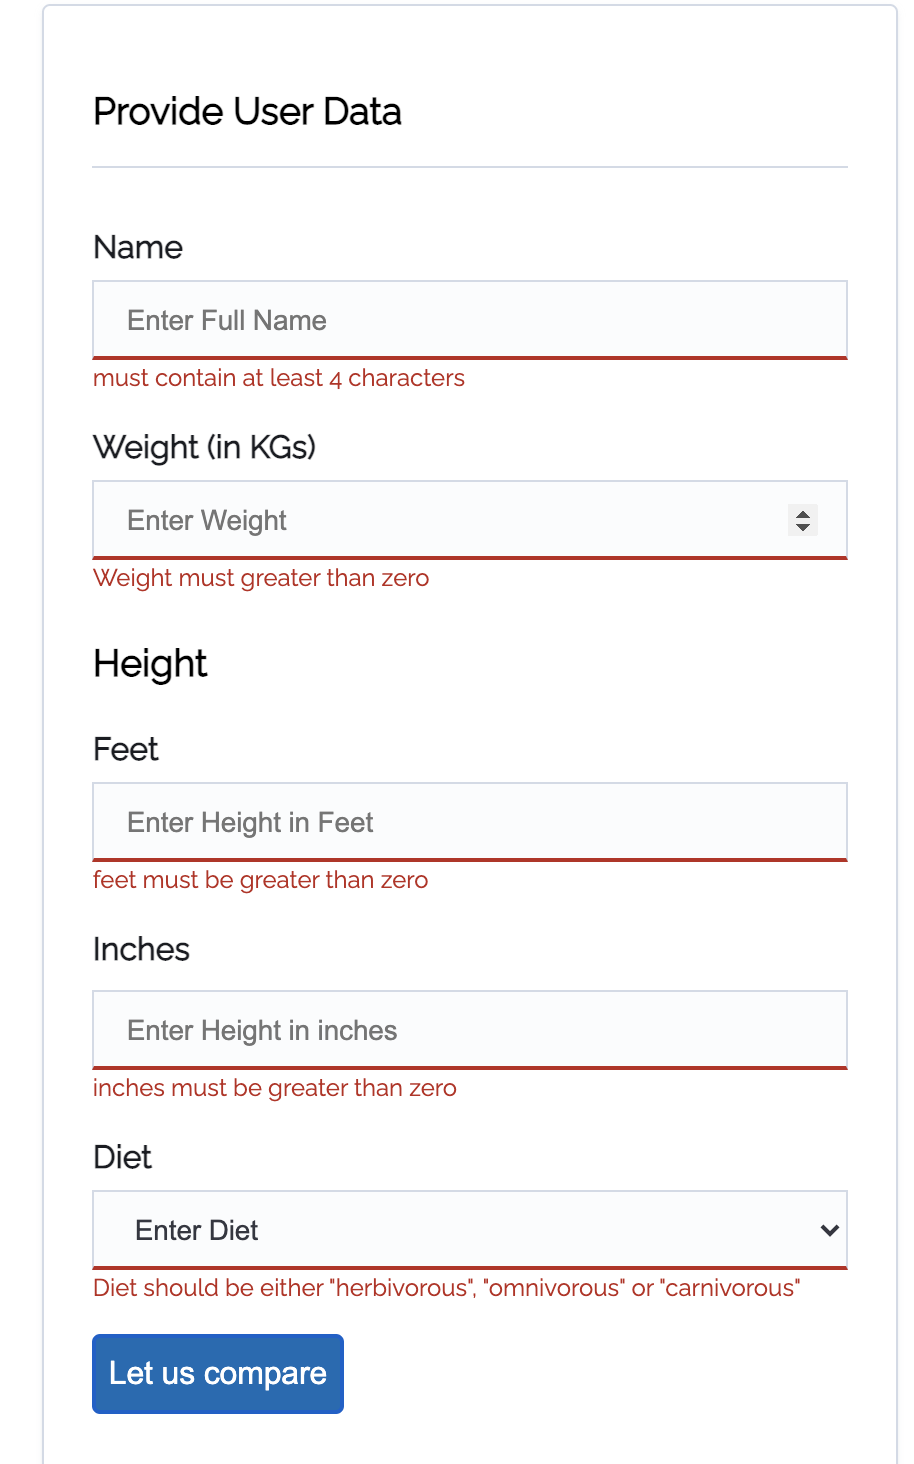
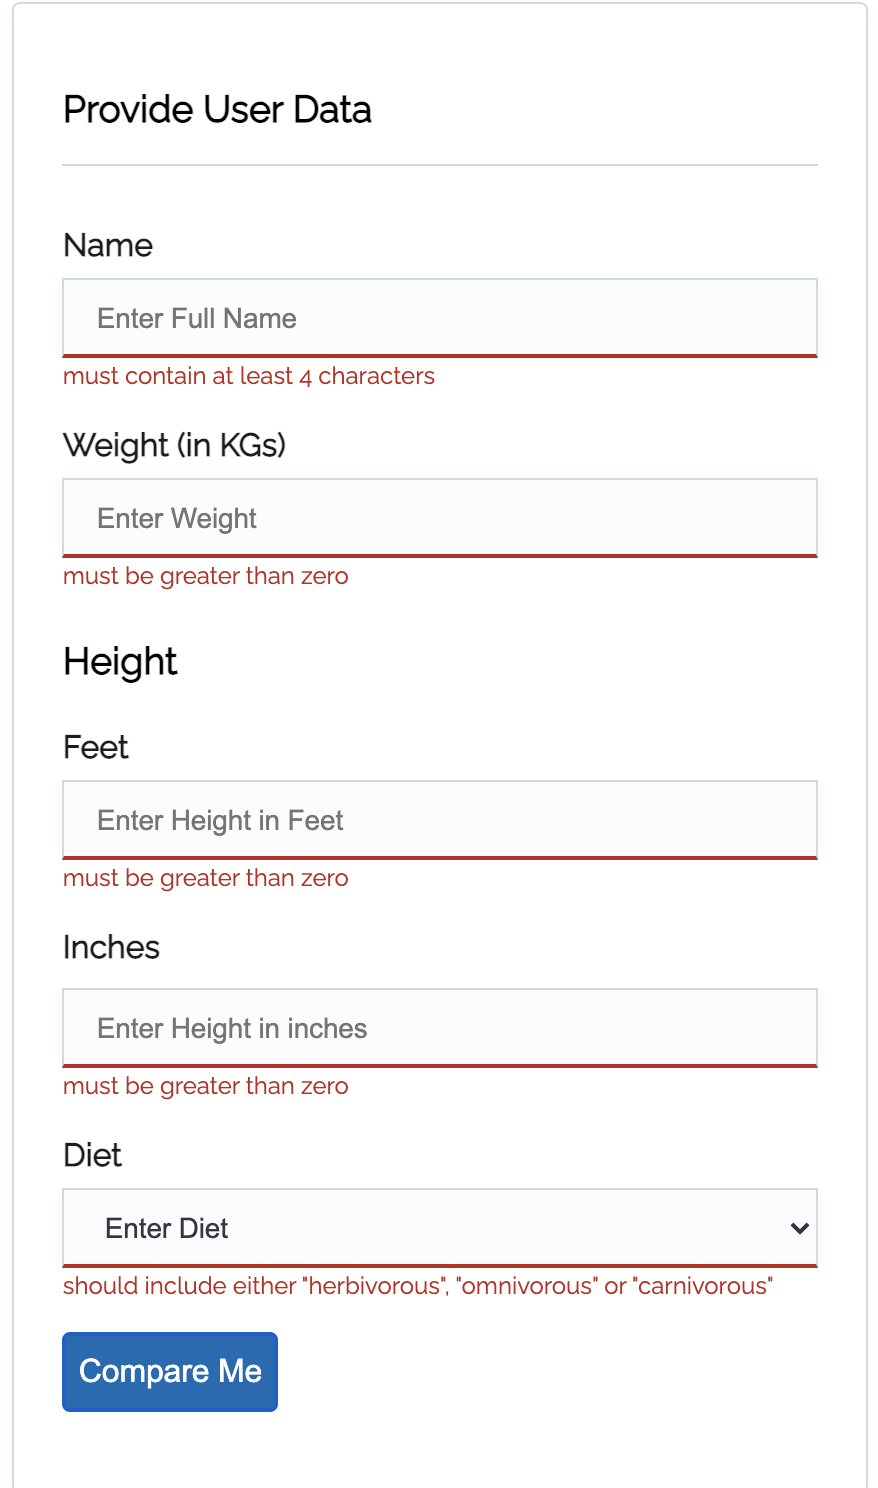
Modify validation error messages

diff --git a/validateForm.js b/validateForm.js
@@ -22,7 +22,7 @@ function _validateWeight(weight) {
     return { isValid: true };
   }
 
-  return { isValid: false, message: 'Weight must greater than zero' };
+  return { isValid: false, message: 'must be greater than zero' };
 }
 
 function _validateDiet(diet) {
@@ -33,7 +33,7 @@ function _validateDiet(diet) {
 
   return {
     isValid: false,
-    message: 'Diet should be either "herbivorous", "omnivorous" or "carnivorous"',
+    message: 'should include either "herbivorous", "omnivorous" or "carnivorous"',
   };
 }
 
@@ -48,7 +48,7 @@ function _validateHeight(height) {
     } else {
       const value = Number(height[field]);
       if (value < 1) {
-        errors.push({ [field]: `${field} must be greater than zero` });
+        errors.push({ [field]: 'must be greater than zero' });
         isValid = false;
       }
     }

diff --git a/index.html b/index.html
@@ -61,13 +61,16 @@
           </select>
         </div>
         <div>
-          <button class="btn" id="submitButton">Let us compare</button>
+          <button class="btn" id="submitButton">Compare Me</button>
         </div>
       </form>
 
   </div>
 
   <!------------- Tiles Section  --------------->
+  <div id="grid-tiles">
+
+  </div>
 
   <!------------- Scripts  --------------->
   <script type="module" src="./app.js"></script>
